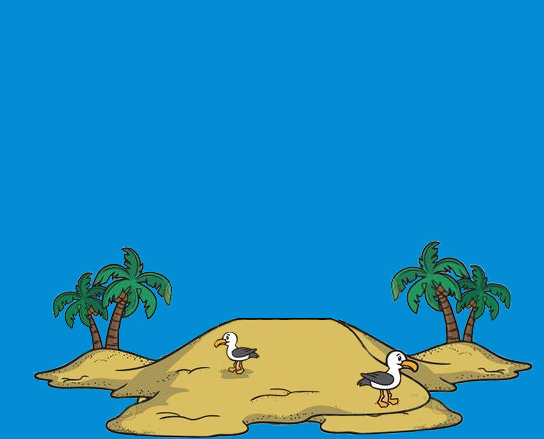
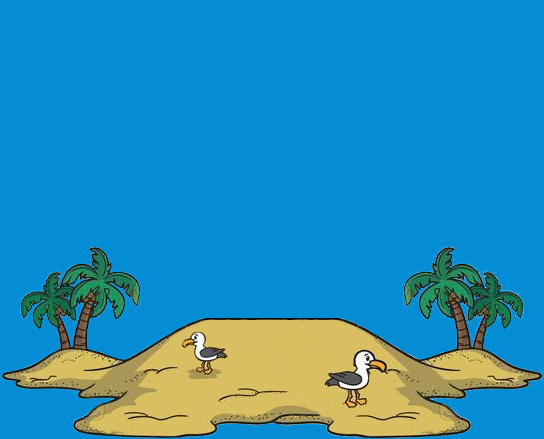
Initial load fix and updated island img

Changed region(s): [[0.0, 0.533, 1.0, 1.0]]

diff --git a/assets/javascript/game.js b/assets/javascript/game.js
@@ -237,6 +237,10 @@ function gameOver() {
 
 // Initialize first instance of game
 gameReset();
+document.querySelector('#numWins').innerHTML = "" + numWins;
+document.querySelector('#numLosses').innerHTML = "" + numLosses;
+document.querySelector('#guessLeft').innerHTML = "" + guessLeft;
+document.querySelector('#wordDisplay').innerHTML = wordDisplay.join(" ");
 
 // Check user guess when the user presses a key.
 document.onkeyup = function (event) {
@@ -272,10 +276,11 @@ document.onkeyup = function (event) {
             }
         }
     }
-    // Update HTML with variable values
+// Update HTML with variable values
     document.querySelector('#numWins').innerHTML = "" + numWins;
     document.querySelector('#numLosses').innerHTML = "" + numLosses;
     document.querySelector('#guessLeft').innerHTML = "" + guessLeft;
     document.querySelector('#incorrectGuesses').innerHTML = incorrectGuesses.join(" ");
     document.querySelector('#wordDisplay').innerHTML = wordDisplay.join(" ");
 };
+

diff --git a/assets/css/style.css b/assets/css/style.css
@@ -7,6 +7,7 @@
     background-repeat: no-repeat ;
     background-position: center;
     height: 439px;
+    margin-bottom: 40px;
 }
 
 #hangman {
@@ -38,4 +39,8 @@ h2 {
 
 header {
     margin-bottom: 20px;
+}
+
+#score {
+    min-height: 115px;
 }
